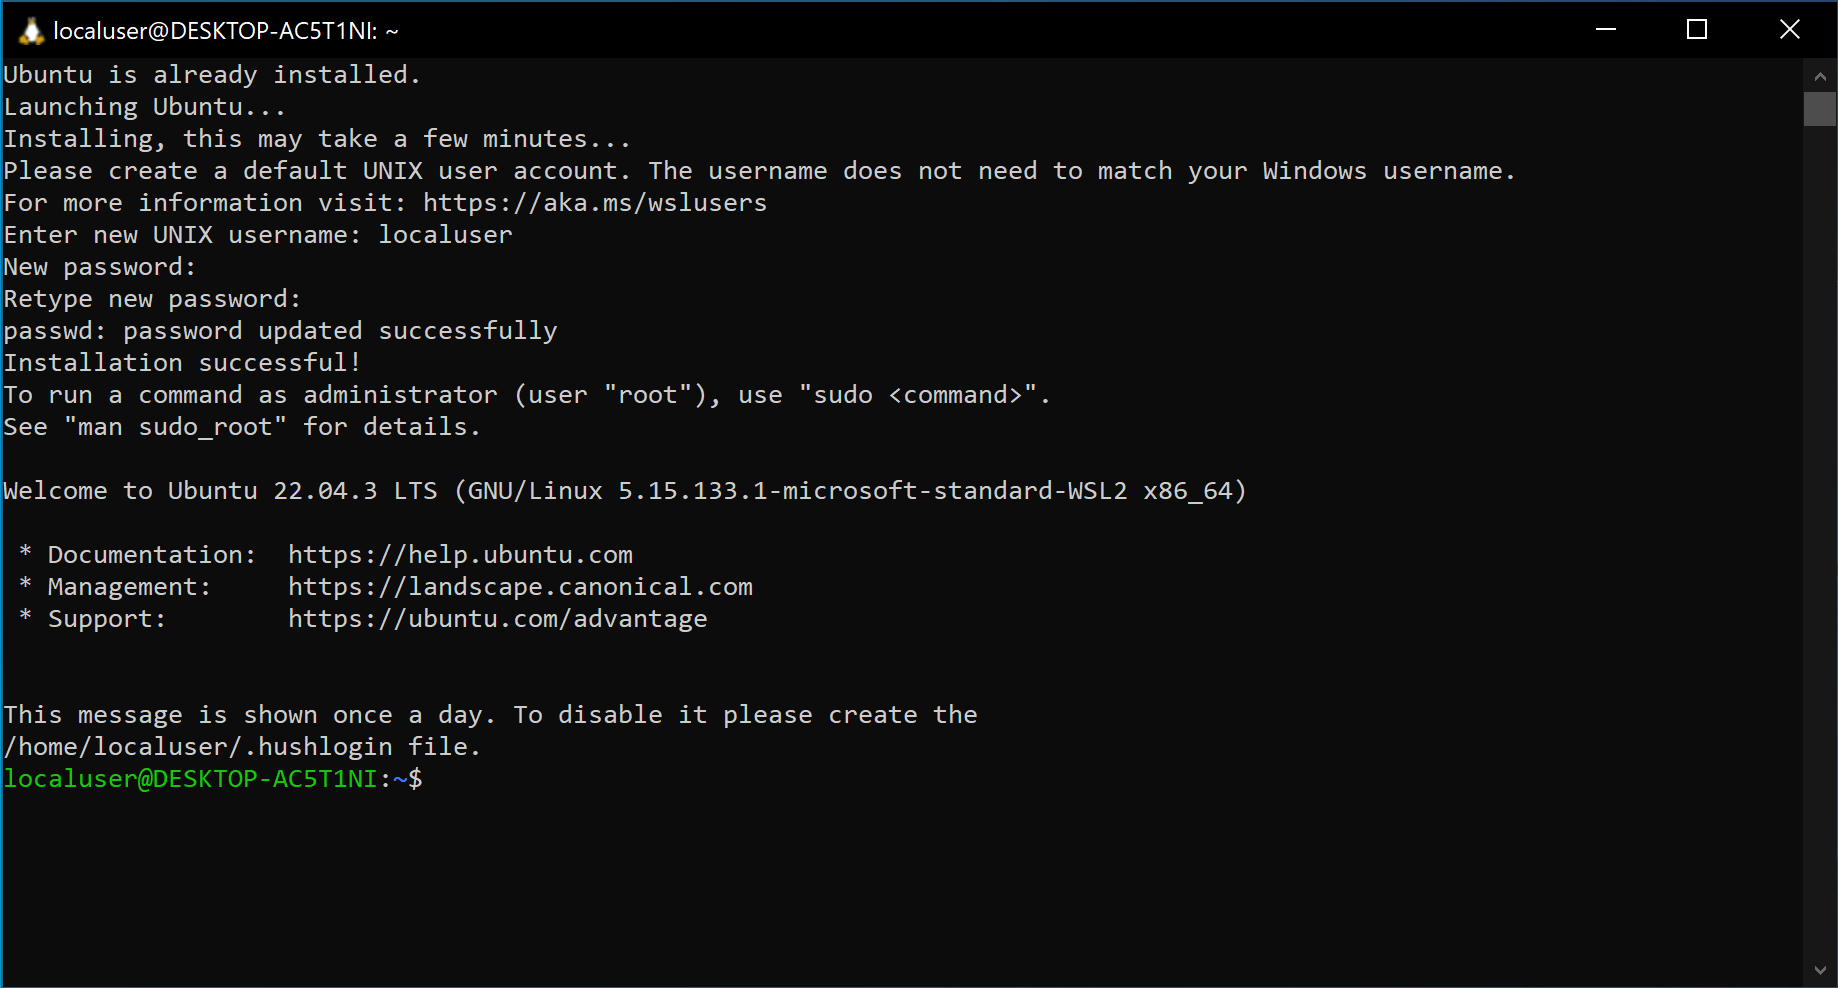
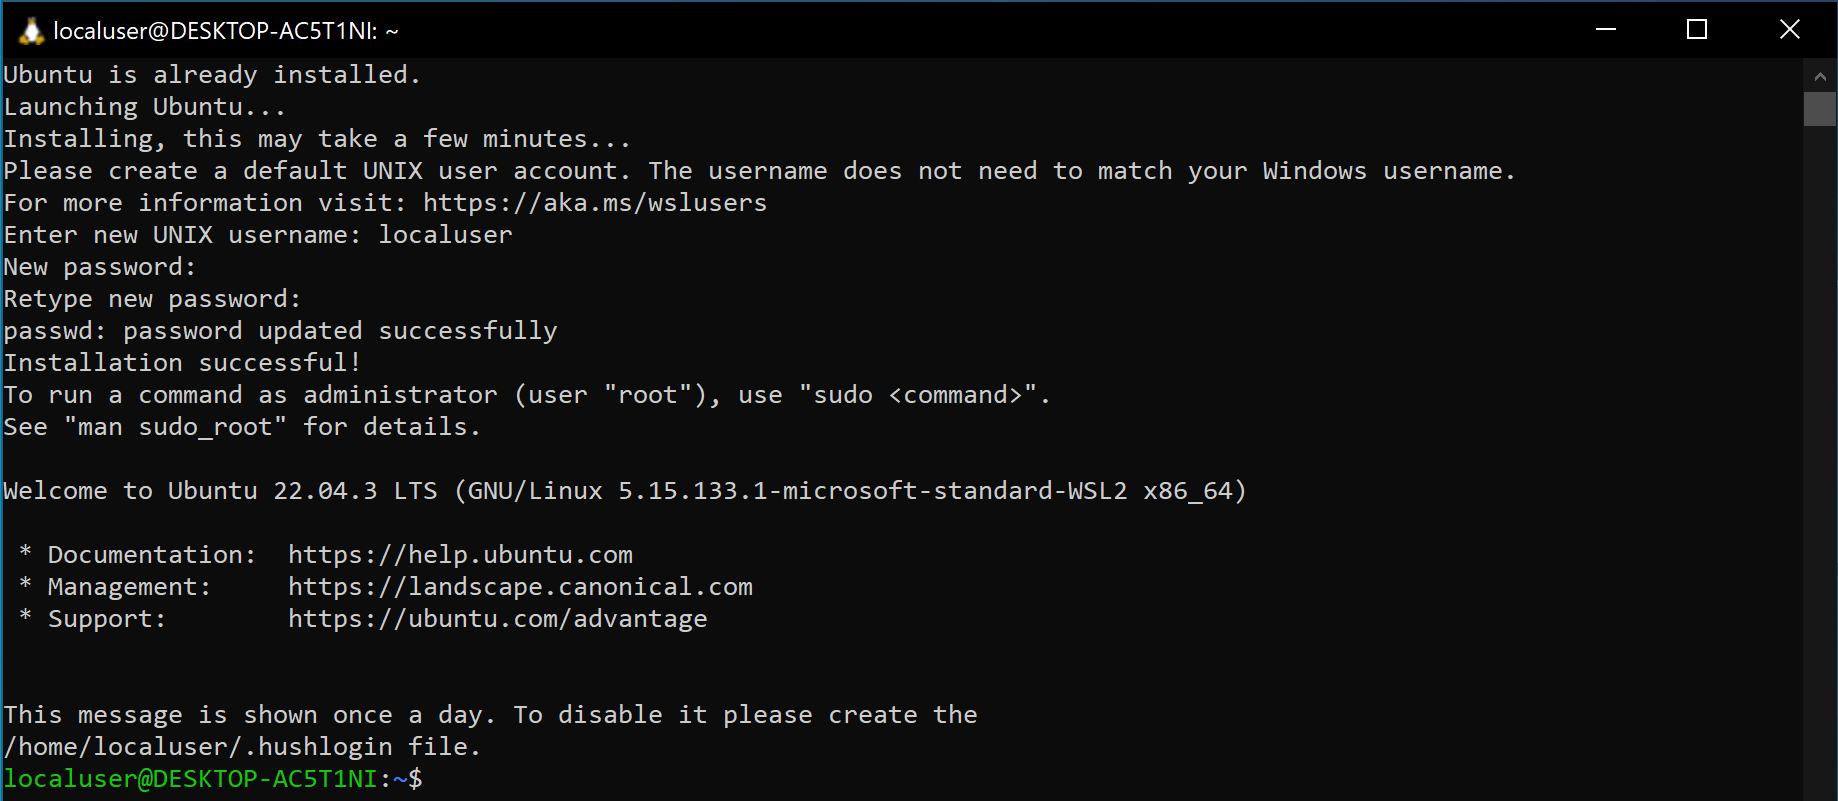
Crop pictures, try removing TOC

diff --git a/pages/2-getting_started/development-environment.md b/pages/2-getting_started/development-environment.md
@@ -7,7 +7,6 @@ permalink: /pages/2-getting_started/development-environment.html
 tags: [software]
 keywords: software
 sidebar: home_sidebar
-toc: false
 
 
 series:
@@ -26,21 +25,29 @@ For Windows users, install [Windows Subsystem for Linux](https://learn.microsoft
 first:
 - Open the Start menu, type "PowerShell", then right-click PowerShell and 
 select "Run as administrator". 
+
 {% include image.html file="/resources/tutorials/setup/part2/powershell.png" width="100%" %}
+
 - Confirm the User Account Control prompt.
 - Type `wsl --install` into the window and press enter.
+
 {% include image.html file="/resources/tutorials/setup/part2/wsl-install.png" width="100%" %}
+
 - After the installation completes, restart your computer.
 - After restarting, type "wsl" in the Start menu. It should bring up a penguin
 icon. Run this command.
 - A window should open, finishing the WSL installation. You will be prompted to
 set a username and password for the Ubuntu installation. You can use any values 
 you wish. This tutorial will use the username `localuser`.
+
 {% include image.html file="/resources/tutorials/setup/part2/wsl-firstrun.png" width="100%" %}
+
 - Restart your computer.
 - After restarting, type "wsl" in the Start menu. It should bring up a penguin
 icon. Run this command.
+
 {% include image.html file="/resources/tutorials/setup/part2/wsl-run.png" width="100%" %}
+
 - You can now "pin" the WSL icon on your toolbar to bring up an Ubuntu terminal.
 Use this terminal window in order to run commands in the rest of this guide.
 
@@ -84,6 +91,7 @@ Now start the Docker container:
 docker compose up -d
 ```
 At this point, the container, containing the COSMOS installation, is running. 
+
 {% include image.html file="/resources/tutorials/setup/part2/docker-install.png" width="100%" %}
 
 You can verify that the container is running by running the command
